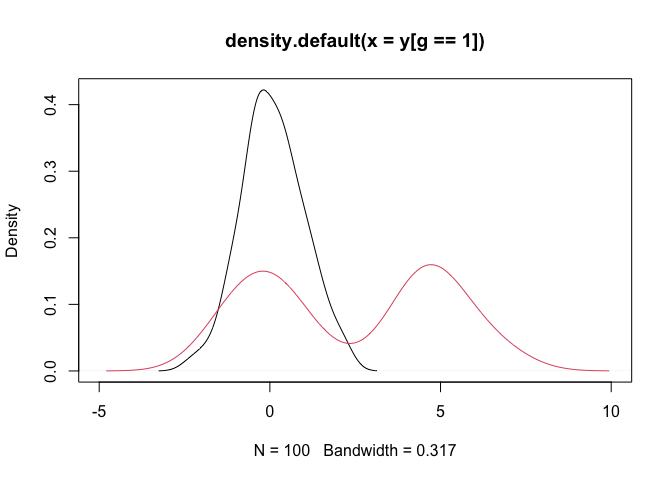
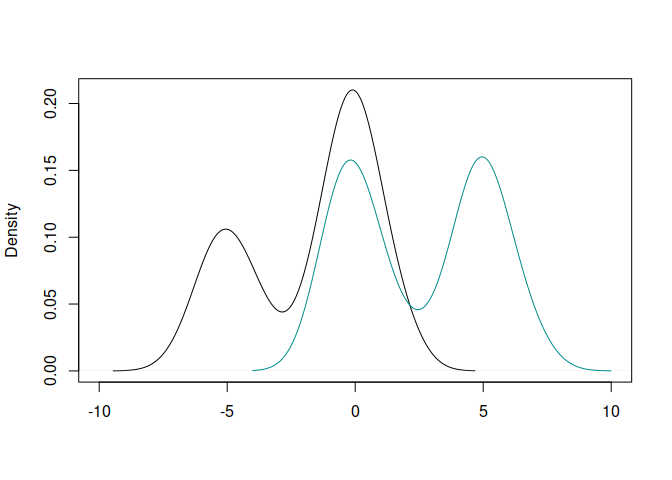
readme

diff --git a/README.md b/README.md
@@ -1,3 +1,4 @@
+
 <!-- README.md is generated from README.Rmd. Please edit that file -->
 
 # SANple v0.0.1 <img src="man/figures/sanple_draft.png" align="right" width="120" />
@@ -15,6 +16,19 @@ models use Gaussian mixtures with a normal-inverse-gamma prior
 distribution on the parameters. Additional functions are provided to
 help analyzing the results of the fitting procedure.
 
+D’Angelo, L., Canale, A., Yu, Z., Guindani, M. (2023). Bayesian
+nonparametric analysis for the detection of spikes in noisy calcium
+imaging data. *Biometrics* 79(2), 1370–1382. <doi:10.1111/biom.13626>.
+
+D’Angelo, L., and Denti, F. (2023+). A finite-infinite shared atoms
+nested model for the Bayesian analysis of large grouped data sets.
+*Working paper* 0–23.
+
+Denti, F., Camerlenghi, F., Guindani, M., Mira, A., 2023. A Common Atoms
+Model for the Bayesian Nonparametric Analysis of Nested Data. *Journal
+of the American Statistical Association*. 118(541), 405–416.
+<doi:10.1080/01621459.2021.1933499>.
+
 ## Installation
 
 You can install the development version of SANple from
@@ -22,7 +36,7 @@ You can install the development version of SANple from
 
 ``` r
 # install.packages("devtools")
-devtools::install_github("laura-dangelo/SANple)
+devtools::install_github("laura-dangelo/SANple")
 ```
 
 ## Example
@@ -36,38 +50,30 @@ library(SANple)
 
 ## basic example code
 set.seed(123)
-y <- c(rnorm(170),rnorm(70,5))
-g <- c(rep(1,100), rep(2, 140))
-plot(density(y[g==1]), xlim = c(-5,10))
-lines(density(y[g==2]), col = 2)
+y <- c(rnorm(50,-5,1), rnorm(170,0,1),rnorm(70,5,1))
+g <- c(rep(1,150), rep(2, 140))
+plot(density(y[g==1]), xlim = c(-10,10), main = "", xlab = "")
+lines(density(y[g==2]), col = "cyan4")
 ```
 
 <img src="man/figures/README-example-1.png" width="100%" />
 
 ``` r
 out <- sample_fiSAN(nrep = 3000, y = y, group = g, beta = 1)
+#> Warning in sample_fiSAN(nrep = 3000, y = y, group = g, beta = 1): Increase maxL:
+#> all the provided observational mixture components were used. Check '$warnings'
+#> to see when it happened.
 out 
 #> 
 #> MCMC result of fiSAN model 
 #> -----------------------------------------------
-#> Model estimated on 240 total observations and 2 groups 
+#> Model estimated on 290 total observations and 2 groups 
 #> Total MCMC iterations: 3000 
 #> maxL: 50 - maxK: 50 
-#> Elapsed time: 1.435 secs
+#> Elapsed time: 1.359 secs
+plot(out)
 ```
 
+<img src="man/figures/README-example-2.png" width="100%" />
+
 …
-
-# References
-
-D’Angelo, L., Canale, A., Yu, Z., Guindani, M. (2023). Bayesian
-nonparametric analysis for the detection of spikes in noisy calcium
-imaging data. *Biometrics* 79(2), 1370–1382. .
-
-D’Angelo, L., and Denti, F. (2023+). A finite-infinite shared atoms
-nested model for the Bayesian analysis of large grouped data sets.
-*Working paper* 0–23.
-
-Denti, F., Camerlenghi, F., Guindani, M., Mira, A., 2023. A Common Atoms
-Model for the Bayesian Nonparametric Analysis of Nested Data. *Journal
-of the American Statistical Association*. 118(541), 405–416. .
